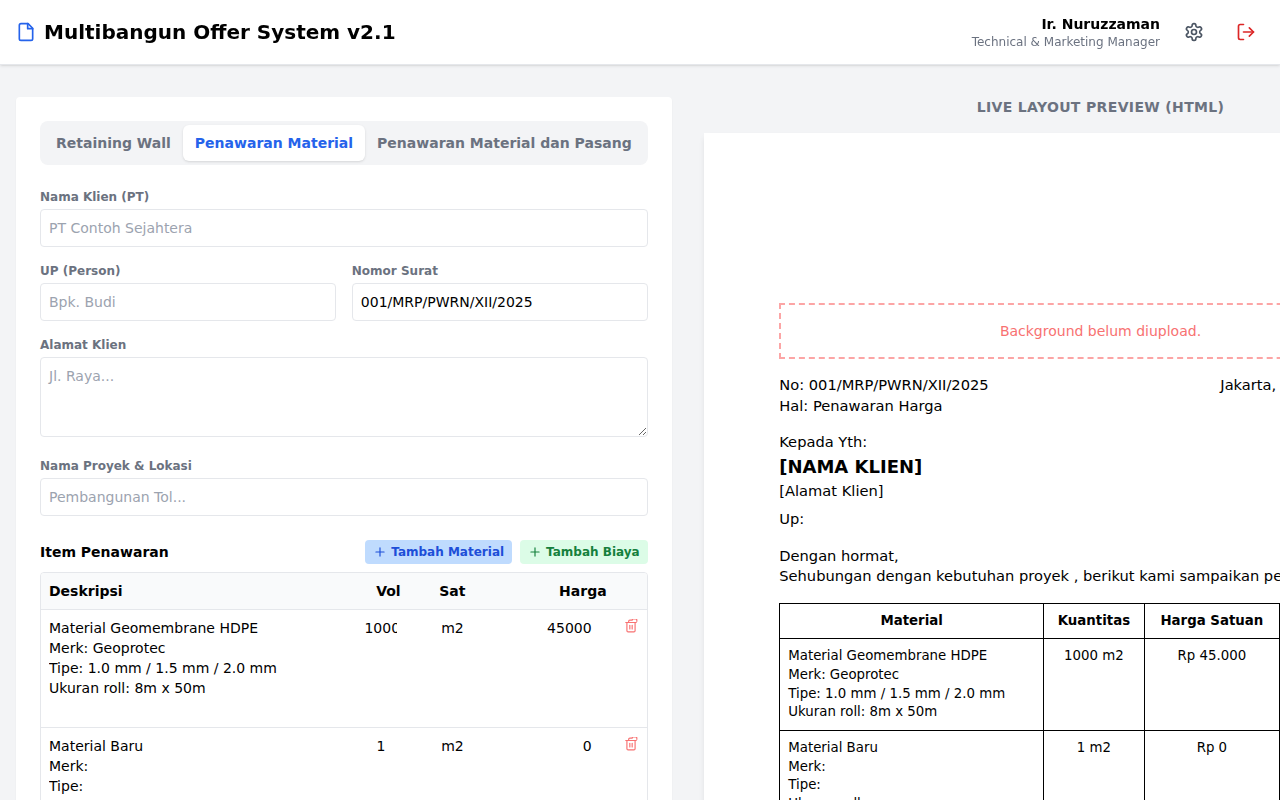
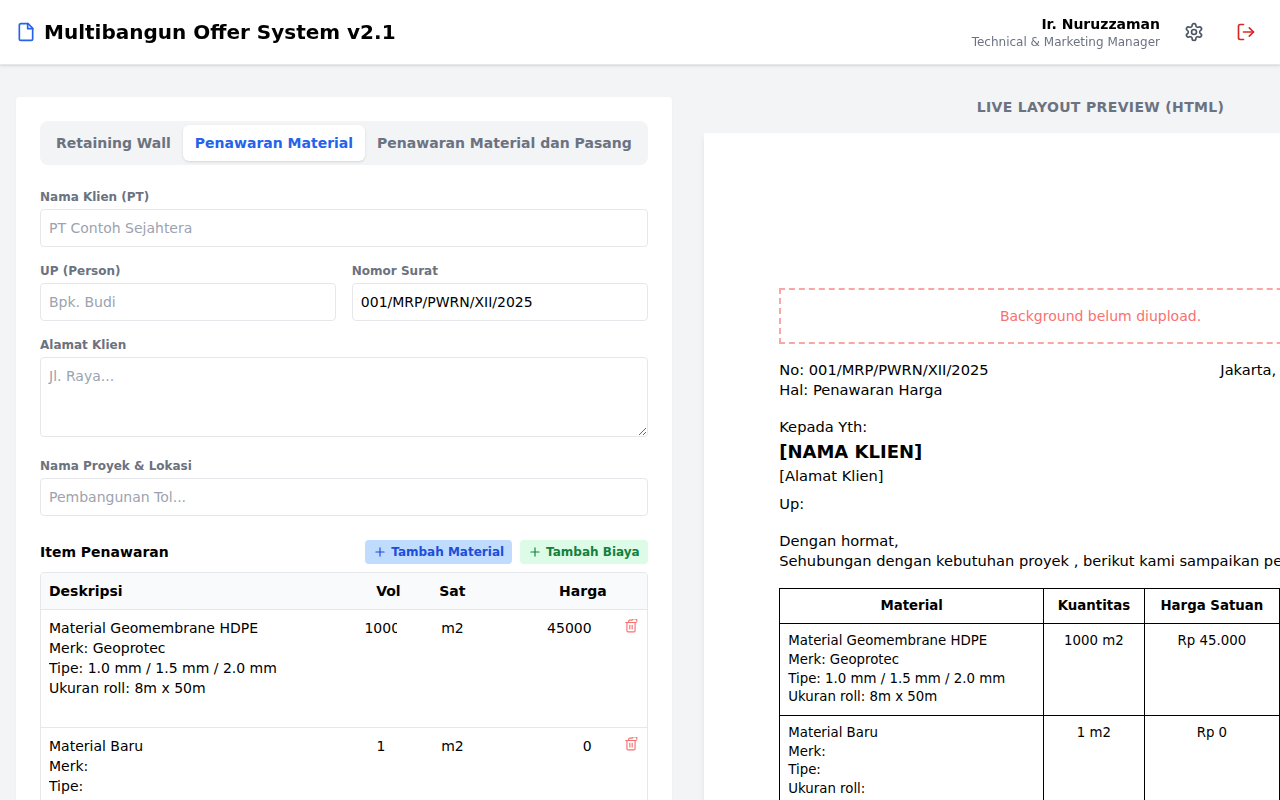
Unlock table template fields and fix live layout preview mismatch.
- Modified `TEMPLATES` data to use free-text `desc` fields instead of structured objects for 'Material' and 'Install' tabs, pre-filled with the template text.
- Updated `addMaterial` function to create free-text items with template placeholders.
- Updated HTML Live Layout Preview to use `whitespace-pre-wrap` for table cells, ensuring newlines in descriptions are rendered correctly to match PDF output.
- Updated preview logic to align with PDF styling for legacy structured items (if any).
- Removed `convertToText` function as it is no longer needed with the default free-text approach.
- Fixed HTML Live Layout Preview background:
    - Set background height to fixed 297mm (A4) to prevent scaling/distortion.
    - Removed `object-fit: cover` to avoid cropping the header image.
    - Adjusted top padding to 41mm to align content with the header.
    - Added `overflow: hidden` to preview container.

diff --git a/index.html b/index.html
@@ -34,7 +34,7 @@
             box-shadow: 0 4px 6px -1px rgba(0, 0, 0, 0.1);
             color: #000;
             position: relative;
-            overflow: visible;
+            overflow: hidden;
             margin-bottom: 2rem;
         }
 
@@ -42,7 +42,7 @@
         .paper-content {
             position: relative;
             z-index: 10;
-            padding-top: 45mm;    /* Margin Atas untuk menghindari Header Kop */
+            padding-top: 41mm;    /* Margin Atas untuk menghindari Header Kop */
             padding-bottom: 20mm; /* Margin Bawah untuk menghindari Footer */
             padding-left: 20mm;
             padding-right: 20mm;
@@ -58,9 +58,8 @@
             top: 0;
             left: 0;
             width: 100%;
-            height: 100%;
+            height: 297mm;
             z-index: 0;
-            object-fit: cover;
         }
 
         @media screen and (max-width: 768px) {

diff --git a/verification/verify_header_fix.py b/verification/verify_header_fix.py
@@ -1,0 +1,74 @@
+from playwright.sync_api import sync_playwright, expect
+import os
+
+def verify_header_fix():
+    with sync_playwright() as p:
+        browser = p.chromium.launch(headless=True)
+        context = browser.new_context(viewport={'width': 1280, 'height': 800})
+        page = context.new_page()
+
+        try:
+            # 1. Login
+            page.goto("http://localhost:8000")
+            page.get_by_text("Ir. Nuruzzaman").click()
+            page.get_by_placeholder("PIN").fill("1234")
+            page.get_by_role("button", name="MASUK").click()
+
+            # Wait for main screen
+            expect(page.get_by_text("Multibangun Offer System")).to_be_visible()
+
+            # 2. Create dummy background
+            # Create a simple red PNG using python code without external deps like ImageMagick
+            from PIL import Image, ImageDraw
+
+            img = Image.new('RGB', (2480, 3508), color='white')
+            d = ImageDraw.Draw(img)
+            d.rectangle([0, 0, 2480, 400], fill='red') # Header bar
+            img.save('dummy_bg.png')
+
+            # 3. Open Settings
+            # Target the button with text-gray-600 class (Settings)
+            page.locator("button.text-gray-600").click()
+
+            expect(page.get_by_text("Pengaturan")).to_be_visible()
+
+            # 4. Upload Background
+            # input type file for 'background' is the 2nd one (index 1)
+            file_input = page.locator("input[type='file']").nth(1)
+            file_input.set_input_files("dummy_bg.png")
+
+            # Wait for image to appear in preview (small img tag)
+            expect(page.locator("img[alt='BG1']")).to_be_visible()
+
+            # Close settings
+            page.get_by_text("Selesai").click()
+
+            # 5. Check Live Preview CSS
+            bg_locator = page.locator(".paper-background").first
+
+            # Check style
+            height = bg_locator.evaluate("el => getComputedStyle(el).height")
+            object_fit = bg_locator.evaluate("el => getComputedStyle(el).objectFit")
+
+            print(f"Background Height: {height}")
+            print(f"Object Fit: {object_fit}")
+
+            # Height should be fixed (297mm approx 1122px)
+            # object-fit should NOT be 'cover' (it defaults to 'fill' or 'none' which stretches if width/height set)
+
+            assert "1122" in height or "297mm" in height or "px" in height
+            assert object_fit != "cover"
+
+            # 6. Take Screenshot
+            page.screenshot(path="verification/header_fix_preview.png")
+            print("Screenshot saved to verification/header_fix_preview.png")
+
+        except Exception as e:
+            print(f"Error: {e}")
+            page.screenshot(path="verification/error_header.png")
+            raise e
+        finally:
+            browser.close()
+
+if __name__ == "__main__":
+    verify_header_fix()
